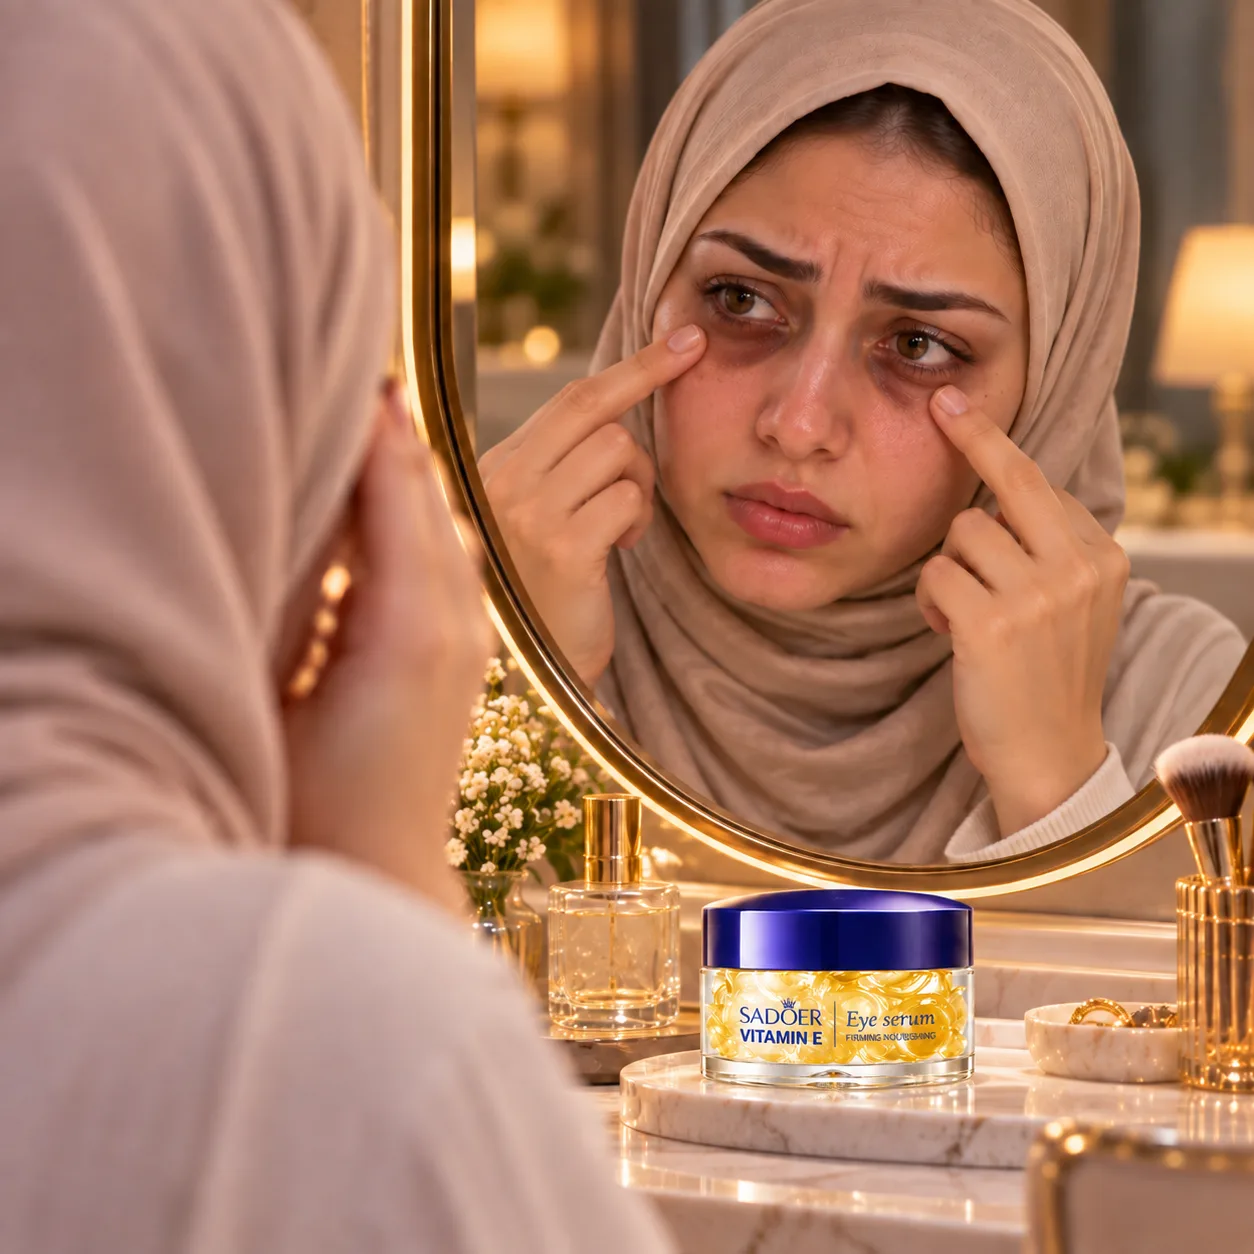
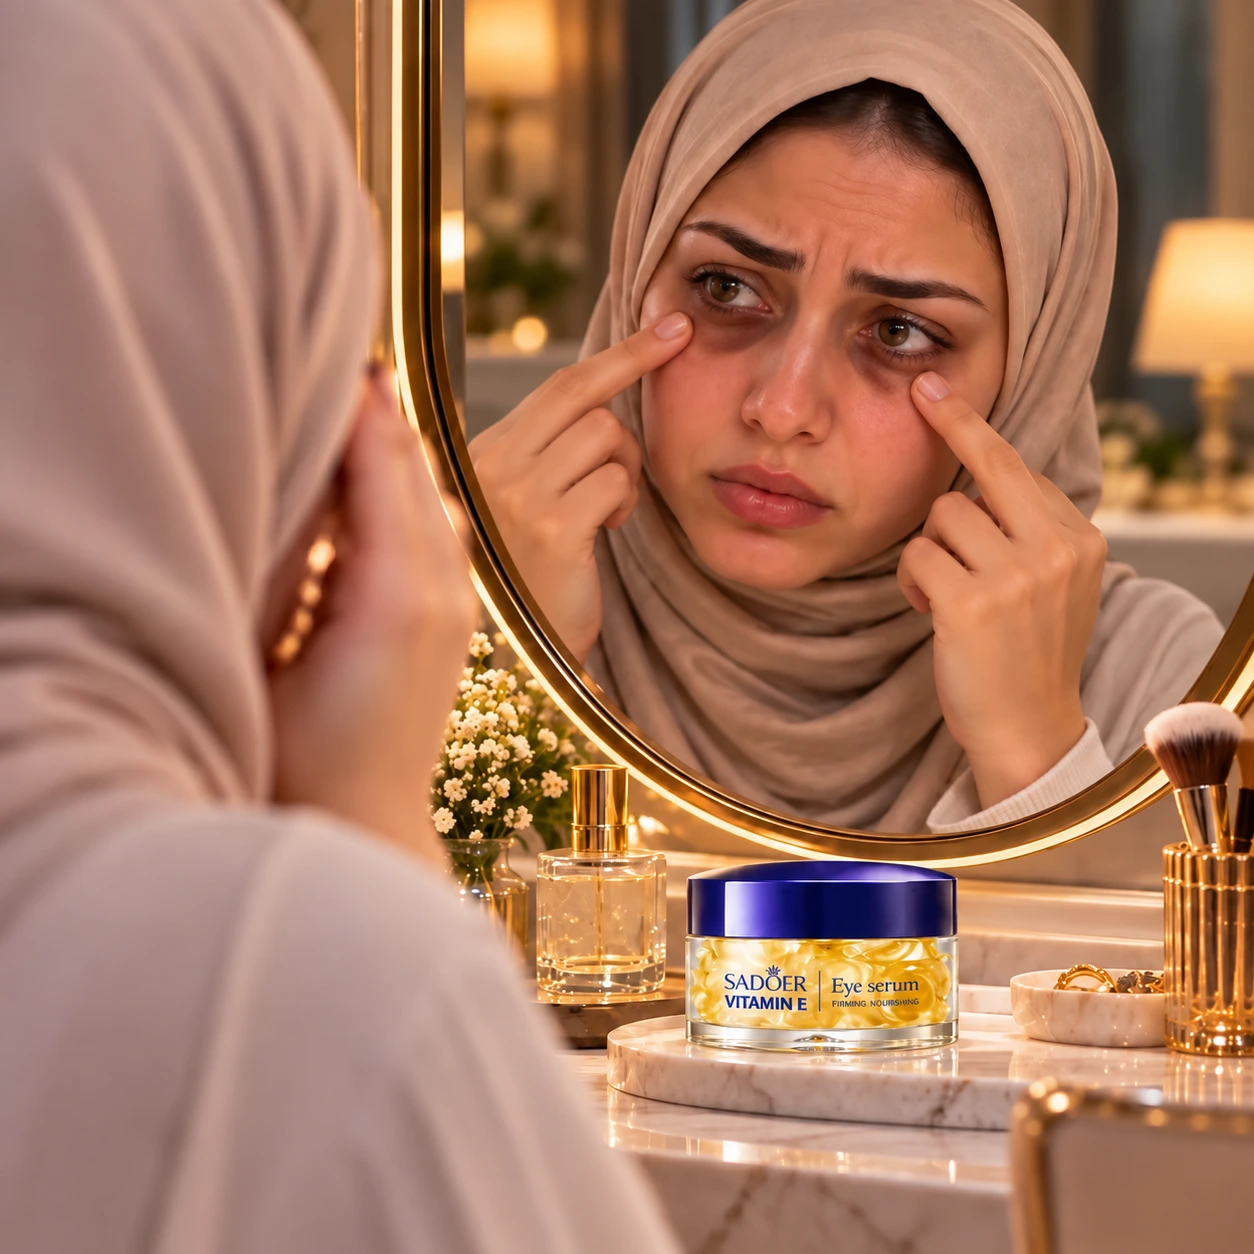
feat(eye-serum): replace story image (slot 2) with HQ Sep 24 asset (#66)

diff --git a/src/config/images.ts b/src/config/images.ts
@@ -56,7 +56,7 @@ export const images = {
     },
     eye: {
       src: "/images/products/pdp/eye-main.webp",
-      storySrc: "/images/products/pdp/eye-story.webp?v=20260924",
+      storySrc: "/images/products/pdp/eye-story.webp?v=20260924-2157",
       upsellSlotSrc: {
         1: "/images/products/pdp/upsell/eye-qty-1.webp?v=20260924",
         2: "/images/products/pdp/upsell/eye-qty-2.webp?v=20260924",
